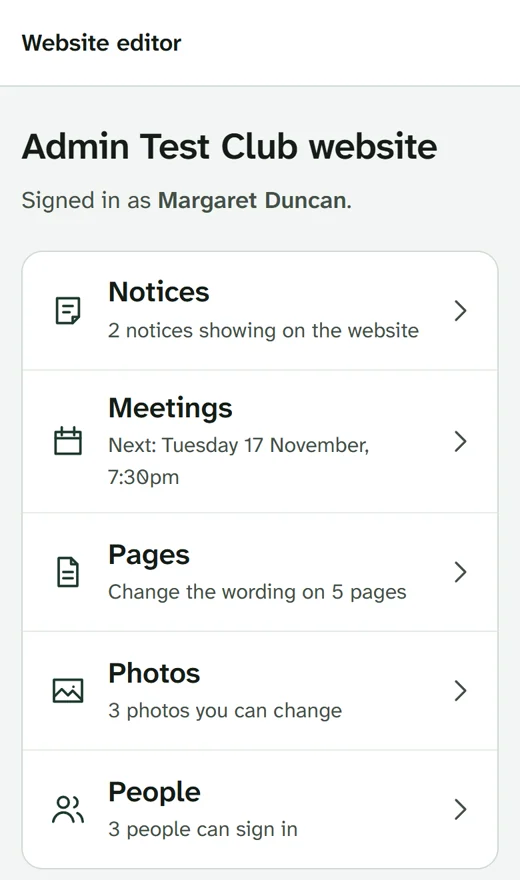
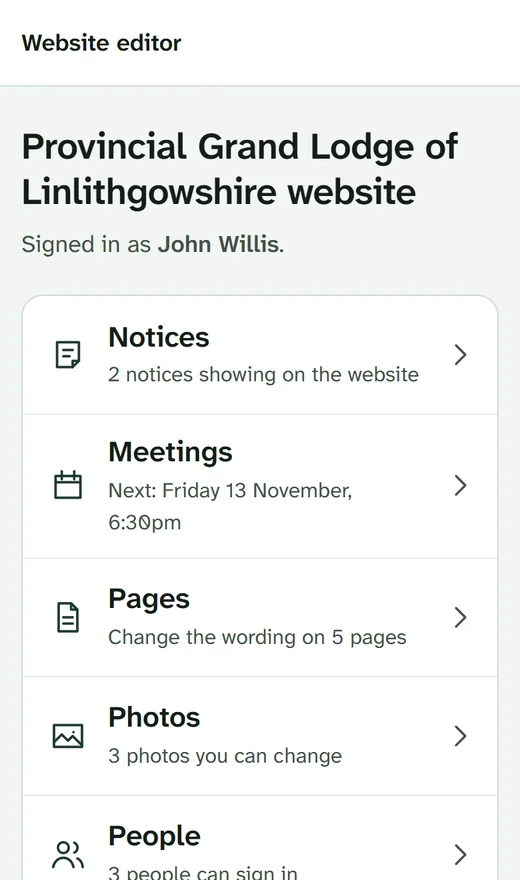
Admin panel pictures: the PGL demo's sample content, signed in as John Willis (no test data)
Home and Photos screens re-shot from the kit's admin UI run locally with Provincial Grand Lodge of
Linlithgowshire sample content; the Photos thumbnails are the Province's own photos (no people).

diff --git a/index.html b/index.html
@@ -132,11 +132,11 @@
           <figure class="screen screen-admin">
             <figcaption>The admin panel</figcaption>
             <div class="frame frame-phone">
-              <img src="images/admin-home.webp" width="520" height="880" alt="The admin panel home screen, listing Notices, Meetings, Pages, Photos and People.">
+              <img src="images/admin-home.webp?v=2" width="520" height="880" alt="The admin panel for the Provincial Grand Lodge of Linlithgowshire demo, signed in as John Willis, listing Notices, Meetings, Pages, Photos and People.">
             </div>
           </figure>
         </div>
-        <p class="stage-note">Real screens: one of our concept demos, and our admin panel running on test data.</p>
+        <p class="stage-note">Real screens: one of our concept demos, and our admin panel running on that demo’s sample content.</p>
       </div>
     </section>
 
@@ -246,10 +246,10 @@
           <li class="plate plate-admin" data-reveal>
             <figure class="plate-figure">
               <div class="frame frame-phone plate-a">
-                <img src="images/admin-photos.webp" width="560" height="1285" loading="lazy" alt="The admin panel's Photos screen: choose a photo on the home page, about or history page to change it or its description.">
+                <img src="images/admin-photos.webp?v=2" width="560" height="1093" loading="lazy" alt="The admin panel's Photos screen: the Forth Bridge on the home page, Hopetoun House on the about page and an old county map on the history page, each ready to change.">
               </div>
               <div class="frame frame-phone plate-b">
-                <img src="images/admin-home.webp" width="520" height="880" loading="lazy" alt="The admin panel home screen, with sections for Notices, Meetings, Pages, Photos and People.">
+                <img src="images/admin-home.webp?v=2" width="520" height="880" loading="lazy" alt="The admin panel home screen, with sections for Notices, Meetings, Pages, Photos and People.">
               </div>
             </figure>
             <h3>The admin panel, with history</h3>

diff --git a/IMAGE_CREDITS.md b/IMAGE_CREDITS.md
@@ -14,7 +14,10 @@ CC0 needs no credit; the footer credits it anyway.
   (12 Nov 2026).
 - `images/ab2000-*.webp`: screenshots of TaleTellers' own AB2000 concept demo (see the next section for the
   photographs inside them).
-- `images/admin-*.webp`: screenshots of the TaleTellers admin panel, running on test data ("Admin Test Club").
+- `images/admin-*.webp`: screenshots of the TaleTellers admin panel (12 Nov 2026), run locally with the Provincial
+  Grand Lodge of Linlithgowshire concept demo's sample content and signed in as John Willis (director, named on
+  Companies House). The Photos screen's three thumbnails (the Forth Bridge, Hopetoun House, an old county map) are the
+  Province's own photos from its current website, as used in the PGL demo; none shows a person.
 - `images/hyguns-logo.png`: the HyGuns logo.
 - `images/mod-stone.png`, `images/mod-wool.png`, `images/mod-slabs.png`: the project logos of our own Minecraft mods
   as shown on their CurseForge pages (All Stone To Tools, All Wools To String, All Slabs To Blocks), downloaded
